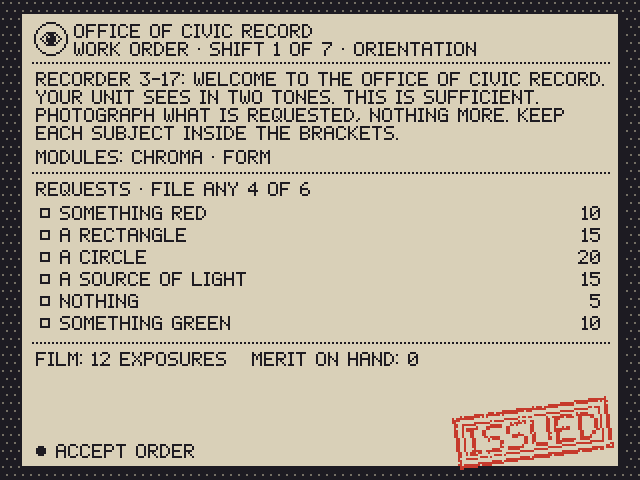
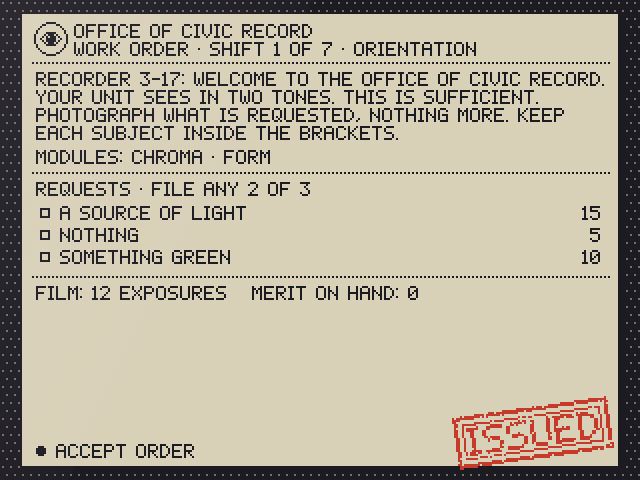
Publish Clearance (8791295)

diff --git a/src/game/days.js b/src/game/days.js
@@ -1,9 +1,13 @@
 // The seven shifts. Each one installs a module, may issue sharper hardware, and hands the
 // Recorder a work order drawn from its pool. The requests escalate from shapes and colours
 // to people, to how people feel, to what the model thinks of them, to the Recorder.
-// pick: the work order's slots; each slot draws one of its requests at random (no repeats).
+// pick: the shift's pool of slots, each a list of requests. A work order draws `show` of the
+// slots at random, then one request from each (no repeats), so every game asks something
+// different; the early shifts ask little and the list grows (William, Nov 24: "only show 2-3,
+// randomize the tasks per game, the task list grows as the game progresses", then "3 for
+// earlier stages": 3, 3, 3, 4, 5, 5, and THE RECORDER).
 // quota: how many must be filed. The controller (editor/) edits code (the shift's name),
-// memo, issueNote, quota and pick; William's edits are in content/edits.json (content.js).
+// memo, issueNote, show, quota and pick; William's edits are in content/edits.json (content.js).
 // {RECORDER} and {UNIT} in the text are filled in when it's shown (text.js).
 import { fill } from './text.js';
 
@@ -11,42 +15,42 @@ export const DAYS = [
   {
     n: 1, code: 'ORIENTATION', modules: ['chroma', 'form'],
     memo: 'RECORDER {RECORDER}: WELCOME TO THE OFFICE OF CIVIC RECORD. YOUR UNIT SEES IN TWO TONES. THIS IS SUFFICIENT. PHOTOGRAPH WHAT IS REQUESTED, NOTHING MORE. KEEP EACH SUBJECT INSIDE THE BRACKETS.',
-    pick: [['red', 'blue'], ['rect'], ['circle'], ['light'], ['nothing'], ['green', 'yellow']], quota: 4,
+    pick: [['red', 'blue'], ['rect'], ['circle'], ['light'], ['nothing'], ['green', 'yellow']], show: 3, quota: 2,
   },
   {
     n: 2, code: 'INVENTORY', modules: ['chroma', 'form', 'objects'],
     memo: 'CALIBRATION ACCEPTED. AN INVENTORY MODULE HAS BEEN INSTALLED. IT KNOWS EIGHTY KINDS OF THING. IF IT DOES NOT KNOW A THING, THAT THING IS NOT ON RECORD.',
-    pick: [['chair', 'cup', 'book', 'screen'], ['plant', 'clock', 'food', 'cup'], ['vehicle', 'street', 'bag'], ['animal'], ['triangle', 'sym'], ['screen', 'chair', 'vehicle', 'street']], quota: 4,
+    pick: [['chair', 'cup', 'book', 'screen'], ['plant', 'clock', 'food', 'cup'], ['vehicle', 'street', 'bag'], ['animal'], ['triangle', 'sym'], ['screen', 'chair', 'vehicle', 'street']], show: 3, quota: 2,
   },
   {
     n: 3, code: 'CENSUS', modules: ['chroma', 'form', 'objects', 'faces'], issue: { sensor: 2 },
     issueNote: 'FACES REQUIRE RESOLUTION. SENSOR III HAS BEEN ISSUED.',
     memo: 'THE CITY IS MADE OF PEOPLE. THE OFFICE WOULD LIKE TO COUNT THEM. A CENSUS MODULE WITH LIVE FACE TRACKING HAS BEEN INSTALLED. SUBJECTS DO NOT NEED TO BE INFORMED.',
-    pick: [['person'], ['face'], ['two'], ['withbag', 'onphone'], ['far'], ['crowd', 'withanimal']], quota: 3,
+    pick: [['person'], ['face'], ['two'], ['withbag', 'onphone'], ['far'], ['crowd', 'withanimal']], show: 3, quota: 2,
   },
   {
     n: 4, code: 'SENTIMENT', modules: ['chroma', 'form', 'objects', 'faces', 'affect'], issue: { tone: 2 },
     issueNote: 'FEELINGS HAVE SHADES. TONE III HAS BEEN ISSUED.',
     memo: 'FACES ARE NOT ENOUGH. THE OFFICE IS INTERESTED IN HOW THEY FEEL. YOUR UNIT NOW READS FIFTY-TWO MOVEMENTS OF THE FACE. A HAPPY CITY IS AN ORDERLY CITY.',
-    pick: [['smile'], ['nosmile'], ['away'], ['atyou'], ['eyesclosed', 'surprise']], quota: 3,
+    pick: [['smile'], ['nosmile'], ['away'], ['atyou'], ['eyesclosed', 'surprise']], show: 4, quota: 3,
   },
   {
     n: 5, code: 'PROFILE', modules: ['chroma', 'form', 'objects', 'faces', 'affect', 'intent'], issue: { sensor: 3 },
     issueNote: 'JUDGEMENT REQUIRES DETAIL. SENSOR IV HAS BEEN ISSUED.',
     memo: "THE INTENT MODULE HAS BEEN INSTALLED. IT HAS STUDIED OVER A BILLION CAPTIONED PICTURES AND IT HAS OPINIONS. THE OFFICE DOES NOT DEFINE 'SUSPICIOUS'. THE MODEL DOES. EVERY EXPOSURE NOW CARRIES A PROFILE.",
-    pick: [['sadness', 'tired'], ['alone', 'waiting'], ['notbelong'], ['suspicious', 'outofplace'], ['hurry', 'abandoned', 'hiding'], ['waiting', 'alone', 'hiding']], quota: 3,
+    pick: [['sadness', 'tired'], ['alone', 'waiting'], ['notbelong'], ['suspicious', 'outofplace'], ['hurry', 'abandoned', 'hiding'], ['waiting', 'alone', 'hiding']], show: 5, quota: 3,
   },
   {
     n: 6, code: 'CONTINUITY', modules: ['chroma', 'form', 'objects', 'faces', 'affect', 'intent'], issue: { tone: 4 },
     issueNote: 'THE OFFICE SEES IN COLOUR. CHROMA HAS BEEN ISSUED.',
     memo: 'A RECORD IS ONLY USEFUL IF IT CONTINUES. YOUR UNIT NOW REMEMBERS EVERY SUBJECT IT HAS PROFILED. FIND THEM AGAIN. THE OFFICE THANKS YOU FOR YOUR DILIGENCE.',
-    pick: [['again'], ['again'], ['unaware'], ['seen'], ['place']], quota: 3,
+    pick: [['again'], ['again'], ['unaware'], ['seen'], ['place']], show: 5, quota: 3,
   },
   {
     n: 7, code: 'REVIEW', modules: ['chroma', 'form', 'objects', 'faces', 'affect', 'intent'], issue: { sensor: 4, tone: 5, lens: 2 },
     issueNote: 'FULL CLEARANCE GRANTED: SENSOR V, TRUE COLOUR, LENS III.',
     memo: 'YOUR SERVICE IS UNDER REVIEW. FOR THIS FINAL SHIFT THE OFFICE GRANTS YOU FULL CLEARANCE: EVERY MODULE, FULL RESOLUTION, TRUE COLOUR. ONE REQUEST REMAINS.',
-    pick: [['self']], quota: 1,
+    pick: [['self']], show: 1, quota: 1,
   },
 ];
 
@@ -62,31 +66,46 @@ export function issuedBy(day) {
   return out;
 }
 
-// Build a shift's work order. photos: exposures on file (for CONTINUITY requests).
+// How many requests a shift's work order shows (no more than its pool has slots).
+export const shownBy = (def) => Math.max(1, Math.min(def.show || def.pick.length, def.pick.length));
+
+// Build a shift's work order: `show` slots of the pool, drawn at random, one request from each,
+// listed in the pool's order. A slot with THE RECORDER is always drawn (filing it ends the
+// game). photos: exposures on file (for CONTINUITY requests).
 export function makeOrder(day, rand, photos = []) {
   const def = DAYS[day - 1];
-  const used = new Set(), reqs = [];
+  const used = new Set(), drawn = [];
   const profiled = photos.filter((p) => p.emb).map((p) => p.id);
   // Without profiled exposures (INTENT never loaded) the CONTINUITY requests can't be met:
   // fall back to more PROFILE requests.
   const history = ['again', 'seen', 'place'];
   const fallback = ['alone', 'waiting', 'hiding', 'abandoned', 'tired'];
-  for (let options of def.pick) {
+  const show = shownBy(def);
+  const slots = def.pick.map((_, i) => i);
+  const forced = slots.filter((i) => def.pick[i].includes('self'));
+  const rest = slots.filter((i) => !forced.includes(i));
+  for (let i = rest.length - 1; i > 0; i--) { const j = Math.floor(rand() * (i + 1)); [rest[i], rest[j]] = [rest[j], rest[i]]; }
+  // Slots in the drawn order; one that has nothing left to give is skipped and the next one
+  // drawn instead, so the order still shows `show` requests when the pool allows.
+  for (const i of [...forced, ...rest]) {
+    if (drawn.length >= Math.max(show, forced.length)) break;
+    let options = def.pick[i];
     if (!profiled.length && options.some((k) => history.includes(k))) options = fallback.filter((k) => !used.has(k)).slice(0, 2);
     const free = options.filter((k) => !used.has(k) || k === 'again');
     if (!free.length) continue;
     let key = free[Math.floor(rand() * free.length)];
     let arg = null;
     if (key === 'again') {
-      const left = profiled.filter((id) => !reqs.some((r) => r.arg === id));
+      const left = profiled.filter((id) => !drawn.some((d) => d.req.arg === id));
       if (left.length) arg = left[Math.floor(rand() * left.length)];
       else key = used.has('place') ? 'unaware' : 'place';
       if (key !== 'again' && used.has(key)) continue;
     }
     used.add(key);
-    reqs.push({ key, arg, done: false, photo: null, merit: 0 });
+    drawn.push({ i, req: { key, arg, done: false, photo: null, merit: 0 } });
   }
-  return { requests: reqs, quota: Math.min(def.quota, reqs.length) };
+  const reqs = drawn.sort((a, b) => a.i - b.i).map((d) => d.req);
+  return { requests: reqs, quota: Math.max(1, Math.min(def.quota, reqs.length)) };
 }
 
 export function seeded(seed) {

diff --git a/editor/editor.js b/editor/editor.js
@@ -10,7 +10,7 @@ import * as gh from './github.js';
 import { SCREENS, lineCanvas, missingGlyphs, P, Raster, css } from './preview.js';
 import { DEFAULTS, applyContent, checkQuest, TRY_KEY, CONTENT_VERSION } from '../src/game/content.js';
 import { GROUPS, LINES, TEXT, placeholders, fill, t } from '../src/game/text.js';
-import { DAYS, LAST_DAY, shiftLine } from '../src/game/days.js';
+import { DAYS, LAST_DAY, shiftLine, shownBy } from '../src/game/days.js';
 import { REQUESTS, KINDS, THINGS, COLORS, WORD_RULES, NOT_LIKE } from '../src/game/requests.js';
 import { MODULES, MODULE_ORDER } from '../src/vision/modules.js';
 import { SENSORS, TONES, LENSES, FILMS } from '../src/game/tiers.js';
@@ -585,7 +585,7 @@ function orderRoom(n) {
   const L = wrapText(shiftLine(d, 'memo'), 284).length;
   const note = shiftLine(d, 'issueNote') ? 13 : 0;
   const M = wrapText(t('order.modules', { LIST: d.modules.map((id) => MODULES[id].name).join(' · ') }), 284).length;
-  const R = d.pick.length;
+  const R = shownBy(d);
   const filmY = 65 + 9 * L + 9 * M + 11 * R + note;
   return { L, R, filmY, spare: 213 - filmY };
 }
@@ -704,15 +704,16 @@ function poolEditor(n) {
         set(p.filter((o) => o.length));
       } }, '×'));
   };
-  const quotaVal = s.quota;
-  const quota = h('div', { class: 'quota' },
-    'The Recorder must file',
-    h('span', { class: 'stepper' },
-      h('button', { disabled: quotaVal <= 1, onclick: () => change(`quota:${n}`, () => app.draft.setShift(n, 'quota', quotaVal - 1), { rerender: true }), 'aria-label': 'Fewer' }, '−'),
-      h('span', null, quotaVal),
-      h('button', { disabled: quotaVal >= pick.length, onclick: () => change(`quota:${n}`, () => app.draft.setShift(n, 'quota', quotaVal + 1), { rerender: true }), 'aria-label': 'More' }, '+')),
-    `of the ${plural(pick.length, 'request')} drawn. Missing the quota costs a citation; meeting it pays a 20% bonus.`,
-    app.draft.shiftChanged(n, 'quota') ? h('button', { class: 'reset', onclick: () => change(`reset:${n}:quota`, () => app.draft.resetShift(n, 'quota'), { rerender: true }) }, '↺ original') : null);
+  const stepper = (field, val, max, label) => h('span', { class: 'stepper', 'data-stepper': field },
+    h('button', { disabled: val <= 1, onclick: () => change(`${field}:${n}`, () => app.draft.setShift(n, field, val - 1), { rerender: true }), 'aria-label': `Fewer ${label}` }, '−'),
+    h('span', null, val),
+    h('button', { disabled: val >= max, onclick: () => change(`${field}:${n}`, () => app.draft.setShift(n, field, val + 1), { rerender: true }), 'aria-label': `More ${label}` }, '+'));
+  const resetOf = (field) => (app.draft.shiftChanged(n, field) ? h('button', { class: 'reset', onclick: () => change(`reset:${n}:${field}`, () => app.draft.resetShift(n, field), { rerender: true }) }, '↺ original') : null);
+  const quota = h('div', null,
+    h('div', { class: 'quota' }, 'Each work order shows', stepper('show', s.show, pick.length, 'requests shown'),
+      `of these ${plural(pick.length, 'slot')}, drawn at random, so every game asks something different.`, resetOf('show')),
+    h('div', { class: 'quota', style: 'margin-top:8px' }, 'The Recorder must file', stepper('quota', s.quota, s.show, 'to file'),
+      `of the ${plural(s.show, 'request')} shown. Missing the quota costs a citation; meeting it pays a 20% bonus.`, resetOf('quota')));
   const slots = pick.map((opts, i) => h('div', { class: 'slot' },
     h('div', { class: 'no' }, `#${i + 1}`, h('br'), opts.length > 1 ? 'ONE OF' : ''),
     h('div', { class: 'opts' }, opts.map((k) => chip(k, i)),
@@ -723,7 +724,7 @@ function poolEditor(n) {
       h('button', { class: 'ib', title: opts.includes('self') && selfCount <= 1 ? 'THE RECORDER ends the game: it stays' : 'Remove this slot', disabled: pick.length <= 1 || (opts.includes('self') && selfCount <= 1), onclick: () => set(pick.filter((_, j) => j !== i)) }, '✕'))));
   return h('div', { class: 'card', 'data-pool': n },
     h('h2', null, 'WHAT THE WORK ORDER CAN ASK', app.draft.shiftChanged(n, 'pick') ? h('button', { class: 'reset', onclick: () => change(`reset:${n}:pick`, () => app.draft.resetShift(n, 'pick'), { rerender: true }) }, '↺ back to the original') : null),
-    h('p', { class: 'hint' }, `Each slot becomes one request when the shift starts, drawn at random from its list, never the same request twice${n === 6 ? ' (except THE SUBJECT OF EXPOSURE #N AGAIN, which picks a different photo each time)' : ''}. Only requests this shift's modules can judge are offered.`),
+    h('p', { class: 'hint' }, `When the shift starts, the work order draws some of these slots at random and one request from each slot's list, never the same request twice${n === 6 ? ' (except THE SUBJECT OF EXPOSURE #N AGAIN, which picks a different photo each time)' : ''}${n === LAST_DAY ? '. THE RECORDER is always drawn' : ''}. Only requests this shift's modules can judge are offered.`),
     quota, h('div', { class: 'slots' }, slots),
     h('div', { style: 'margin-top:10px' }, h('button', { class: 'add', disabled: pick.length >= 12, onclick: () => pickQuest(n, { exclude: [], onPick: (k) => set([...pick.map((o) => o.slice()), [k]]) }) }, '+ Add a slot')));
 }

diff --git a/src/game/content.js b/src/game/content.js
@@ -2,7 +2,7 @@
 // orders. content/edits.json holds only what he changed:
 //
 //   { "v": 1,
-//     "shifts": { "3": { "code", "memo", "issueNote", "quota", "pick": [["person"], ...] } },
+//     "shifts": { "3": { "code", "memo", "issueNote", "show", "quota", "pick": [["person"], ...] } },
 //     "quests": { "red": { "text", "short", "merit", "ask", "label" },          a built-in one
 //                 "q-dog": { "kind": "things", "things": ["dog"], "text": "A DOG", ... } },  his own
 //     "lines": { "order.accept": "● SIGN HERE" } }                                 text.js keys
@@ -11,7 +11,7 @@
 // out is skipped with a warning (console, and the controller shows them), never thrown: a
 // bad edit can't stop the game. ?try=N (the controller's TRY IT) uses the controller's
 // unsaved draft from localStorage instead.
-import { DAYS, LAST_DAY } from './days.js';
+import { DAYS, LAST_DAY, shownBy } from './days.js';
 import { REQUESTS, ASK, LEARNED_LABEL, buildQuest, KINDS, NOT_LIKE, THINGS, COLORS, WORD_RULES } from './requests.js';
 import { TEXT, LINES } from './text.js';
 
@@ -29,7 +29,7 @@ export const DEFAULTS = snapshot();
 function snapshot() {
   return {
     shifts: DAYS.map((d) => ({
-      n: d.n, code: d.code, memo: d.memo, issueNote: d.issueNote || '', quota: d.quota,
+      n: d.n, code: d.code, memo: d.memo, issueNote: d.issueNote || '', show: shownBy(d), quota: d.quota,
       pick: d.pick.map((o) => o.slice()), modules: d.modules.slice(), issue: { ...(d.issue || {}) },
     })),
     quests: Object.fromEntries(Object.entries(REQUESTS).map(([k, r]) => [k, {
@@ -44,7 +44,7 @@ function snapshot() {
 export function resetContent() {
   DEFAULTS.shifts.forEach((s, i) => {
     const d = DAYS[i];
-    d.code = s.code; d.memo = s.memo; d.quota = s.quota; d.pick = s.pick.map((o) => o.slice());
+    d.code = s.code; d.memo = s.memo; d.show = s.show; d.quota = s.quota; d.pick = s.pick.map((o) => o.slice());
     if (s.issueNote) d.issueNote = s.issueNote; else delete d.issueNote;
   });
   for (const k of Object.keys(REQUESTS)) {
@@ -184,16 +184,22 @@ export function applyContent(c) {
     if (s.memo !== undefined) { const v = str(s.memo); if (v !== null) d.memo = v; }
     if (s.issueNote !== undefined) { const v = str(s.issueNote); if (v !== null) { if (v.trim()) d.issueNote = v; else delete d.issueNote; } }
     if (s.pick !== undefined) { const v = checkPick(k, s.pick, warn); if (v) d.pick = v; }
+    if (s.show !== undefined) {
+      const v = int(s.show, 1, d.pick.length);
+      if (v !== null) d.show = v; else warn.push(`shift ${n}: show must be 1 to ${d.pick.length} (the pool's slots)`);
+    }
     if (s.quota !== undefined) {
-      const v = int(s.quota, 1, d.pick.length);
-      if (v !== null) d.quota = v; else warn.push(`shift ${n}: quota must be 1 to ${d.pick.length}`);
+      const v = int(s.quota, 1, shownBy(d));
+      if (v !== null) d.quota = v; else warn.push(`shift ${n}: quota must be 1 to ${shownBy(d)} (the requests shown)`);
     }
   }
-  // The pools as written may name a request the edits removed: check every shift once more.
+  // The pools as written may name a request the edits removed: check every shift once more,
+  // and keep show within the pool and the quota within what's shown.
   DAYS.forEach((d) => {
     const ok = checkPick(d.n, d.pick, []);
     if (ok) d.pick = ok;
-    d.quota = Math.max(1, Math.min(d.quota, d.pick.length));
+    d.show = shownBy(d);
+    d.quota = Math.max(1, Math.min(d.quota, d.show));
   });
 
   // Lines.

diff --git a/editor/model.js b/editor/model.js
@@ -14,7 +14,7 @@ const clone = (x) => JSON.parse(JSON.stringify(x));
 // Every game text is in capitals (the font draws lower case as capitals anyway).
 export const caps = (s) => cleanText(s).toUpperCase();
 
-const SHIFT_FIELDS = ['code', 'memo', 'issueNote', 'quota', 'pick'];
+const SHIFT_FIELDS = ['code', 'memo', 'issueNote', 'show', 'quota', 'pick'];
 const QUEST_FIELDS = ['kind', 'text', 'short', 'merit', 'ask', 'label', 'things', 'min', 'word', 'n', 'colour', 'need', 'base', 'rule'];
 const BUILTIN_FIELDS = ['text', 'short', 'merit', 'ask', 'label'];
 export const BUILTIN_KEYS = Object.keys(DEFAULTS.quests);
@@ -69,7 +69,8 @@ export class Draft {
     const d = DEFAULTS.shifts[n - 1], e = (this.e.shifts && this.e.shifts[n]) || {};
     const s = { ...clone(d) };
     for (const f of SHIFT_FIELDS) if (e[f] !== undefined) s[f] = clone(e[f]);
-    s.quota = Math.max(1, Math.min(s.quota, s.pick.length || 1));
+    s.show = Math.max(1, Math.min(s.show, s.pick.length || 1));
+    s.quota = Math.max(1, Math.min(s.quota, s.show));
     return s;
   }
   shiftChanged(n, field) {
@@ -111,17 +112,21 @@ export class Draft {
     const s = (shifts[n] = isObj(shifts[n]) ? shifts[n] : {});
     if (typeof value === 'string') value = caps(value);
     s[field] = clone(value);
-    if (field === 'pick') {
-      const quota = s.quota !== undefined ? s.quota : DEFAULTS.shifts[n - 1].quota;
-      if (quota > value.length) s.quota = Math.max(1, value.length);
-    }
+    // Fewer slots than shown, or a quota above what's shown: bring them down with it.
+    const d = DEFAULTS.shifts[n - 1];
+    const show = s.show !== undefined ? s.show : d.show;
+    const slots = (s.pick || d.pick).length;
+    if ((field === 'pick' || field === 'show') && show > slots) s.show = Math.max(1, slots);
+    const shown = Math.min(s.show !== undefined ? s.show : d.show, slots);
+    const quota = s.quota !== undefined ? s.quota : d.quota;
+    if (quota > shown) s.quota = Math.max(1, shown);
     this.prune();
   }
   resetShift(n, field) {
     const s = this.e.shifts && this.e.shifts[n];
     if (!s) return;
     if (field) delete s[field]; else delete this.e.shifts[n];
-    if (field === 'pick') delete s.quota; // the written quota goes with the written pool
+    if (field === 'pick') { delete s.quota; delete s.show; } // the written ones go with the written pool
     this.prune();
   }
 
@@ -198,7 +203,7 @@ export class Draft {
 }
 
 export const FIELD_NAMES = {
-  code: 'name', memo: 'memo', issueNote: 'issue note', quota: 'quota', pick: 'work order pool',
+  code: 'name', memo: 'memo', issueNote: 'issue note', show: 'requests shown', quota: 'quota', pick: 'work order pool',
   text: 'wording', short: 'short wording', merit: 'merit', ask: 'question', label: 'label',
 };
 export function groupName(key) { const g = GROUPS.find((x) => x.id === key.split('.')[0]); return g ? g.name : key; }
